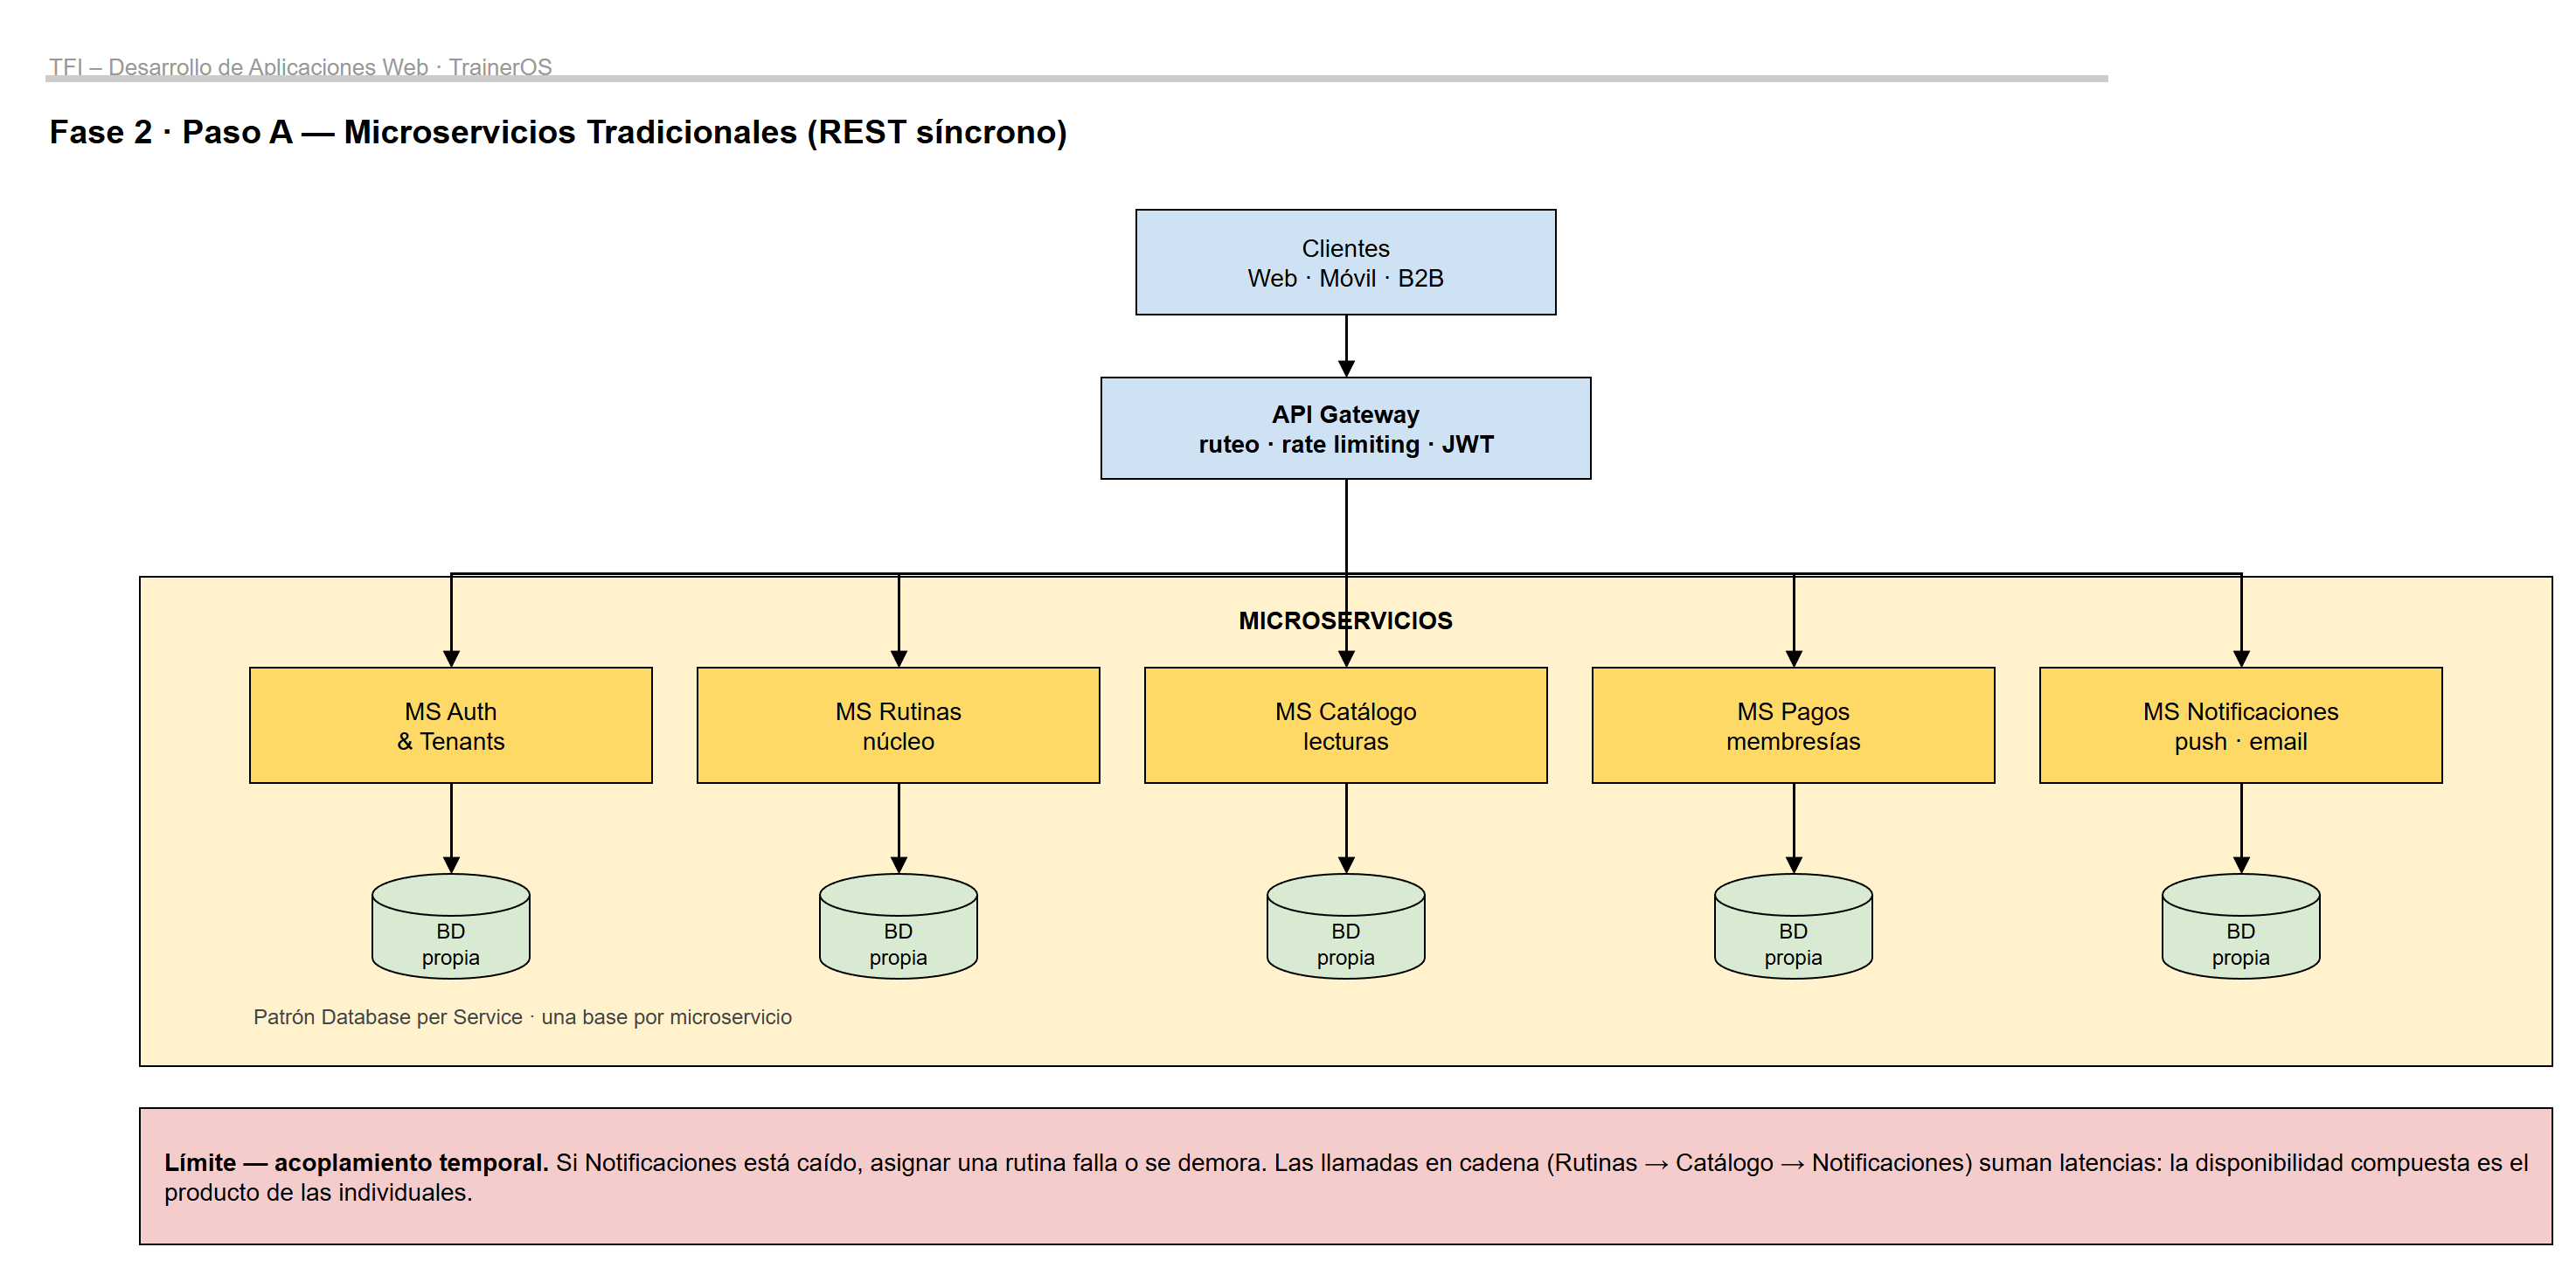
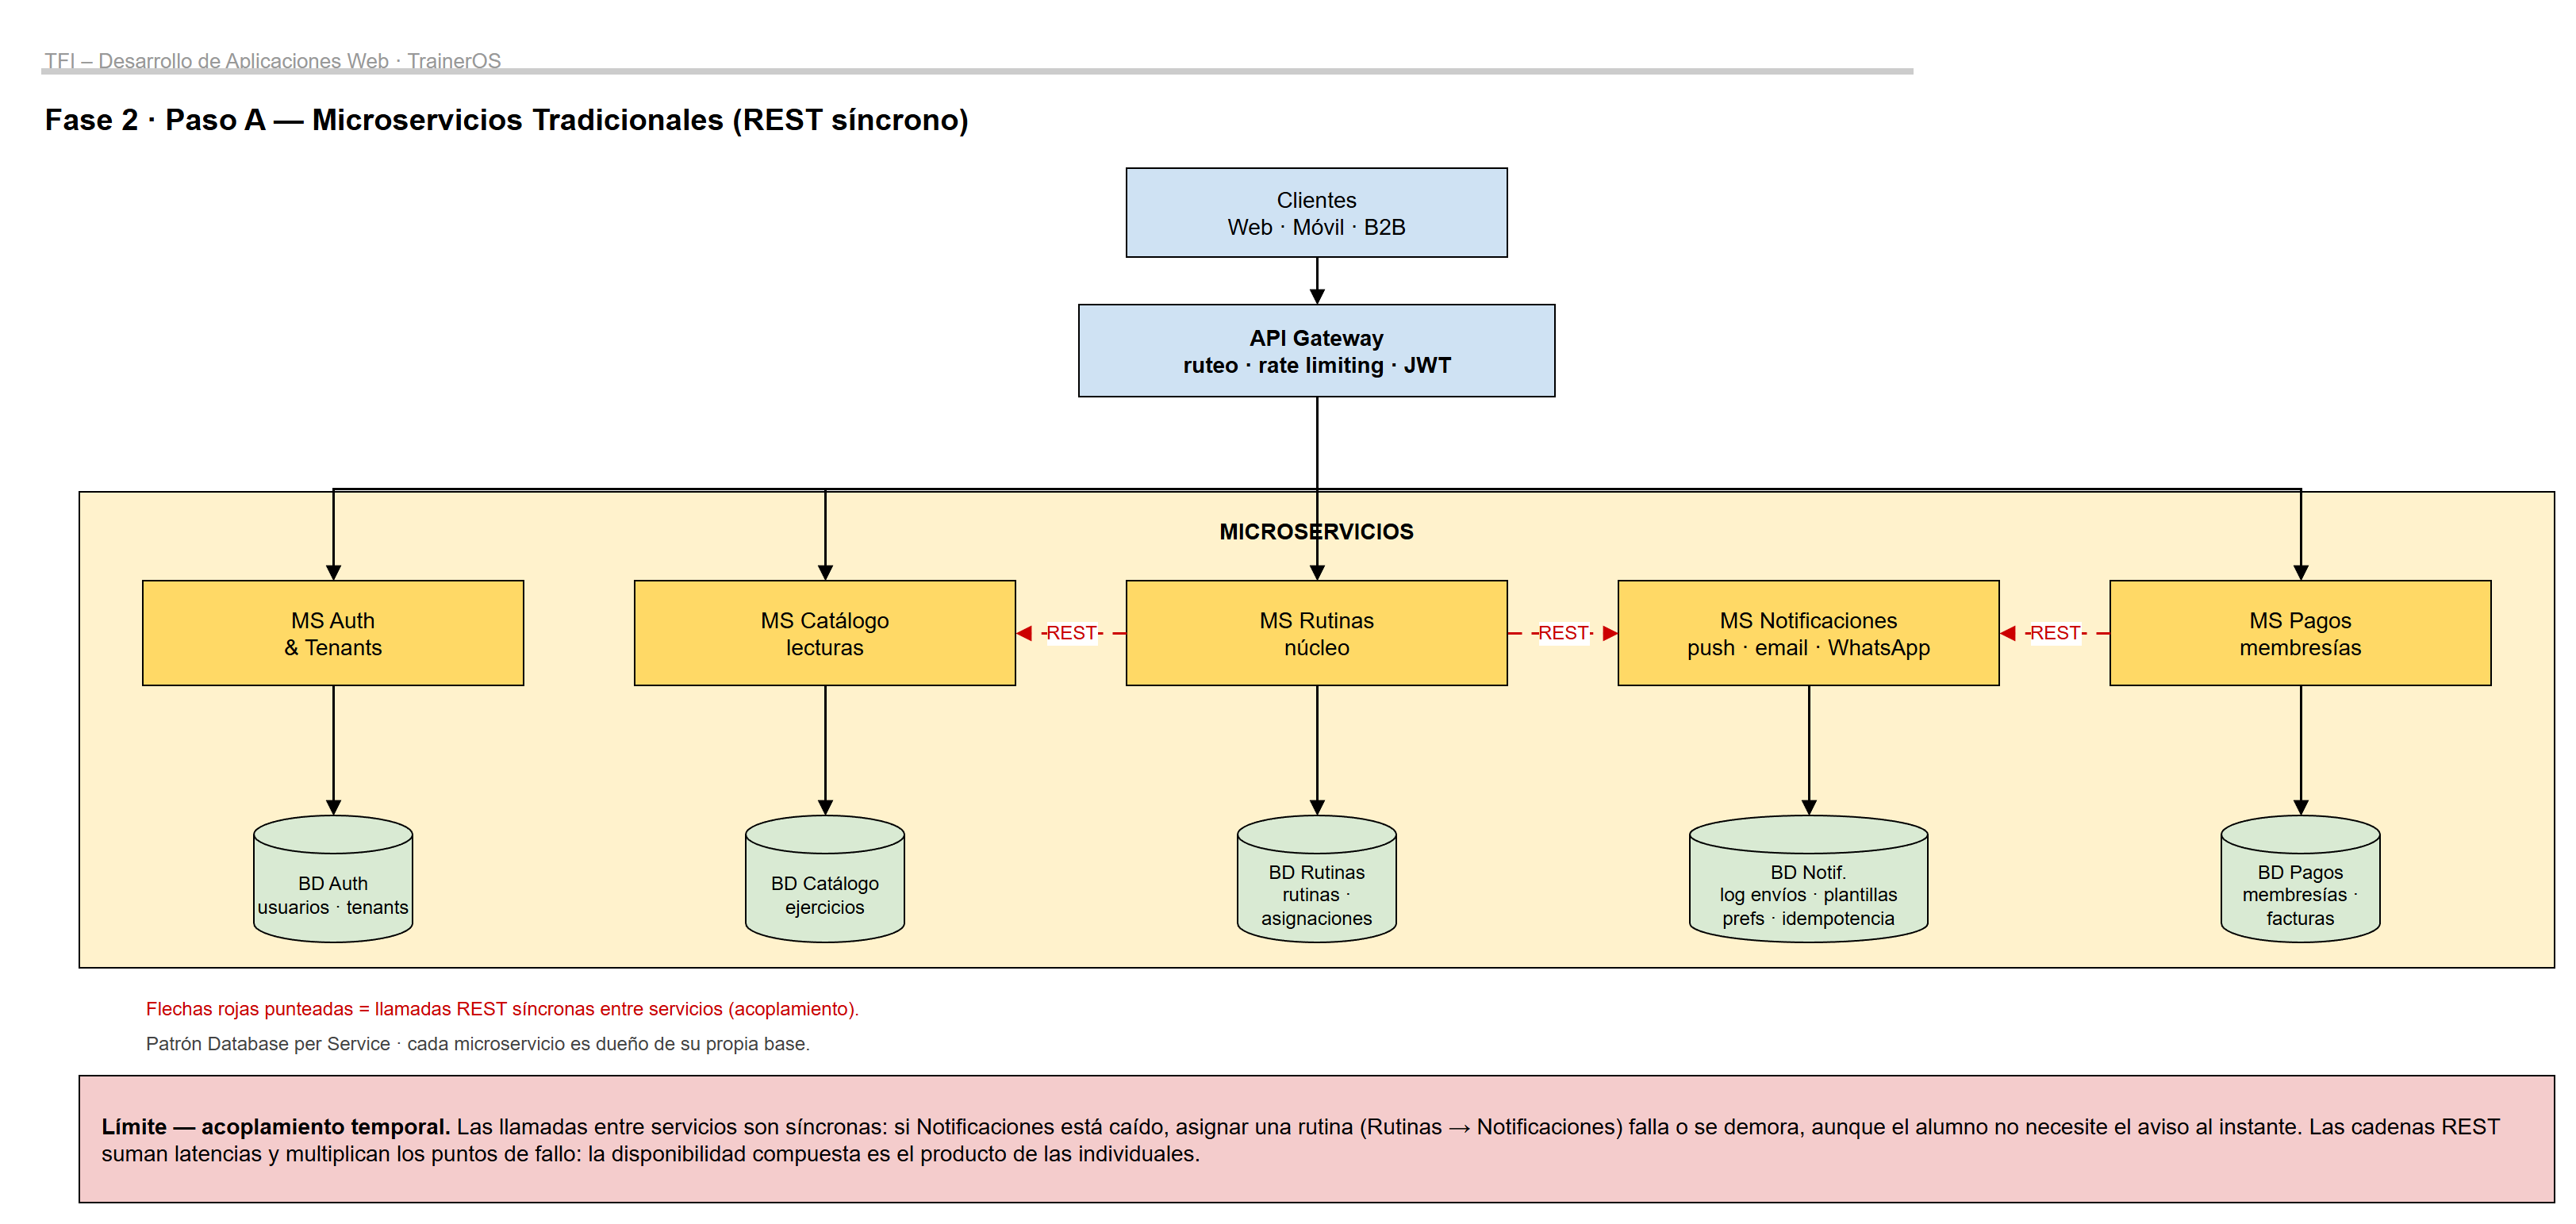
feat: completa y corrige los diagramas de arquitectura
- rehace el diagrama de microservicios tradicionales con base de datos por
  servicio y las llamadas REST sincronas entre servicios
- corrige el diagrama orientado a eventos (el gateway estaba desconectado)
- agrega los diagramas de robustez y escalabilidad (fase 3) e integracion con IA (fase 5)

diff --git a/Presentacion/generador/build_drawio.py b/Presentacion/generador/build_drawio.py
@@ -86,21 +86,38 @@ def fase1():
 # ===================================================== FASE 2A
 def fase2a():
     d=Dio(); header(d, "Fase 2 · Paso A — Microservicios Tradicionales (REST síncrono)")
-    cli = d.node(660, 110, 240, 60, "Clientes\nWeb · Móvil · B2B", box(BLUE))
-    gw = d.node(640, 206, 280, 58, "API Gateway\nruteo · rate limiting · JWT", box(BLUE, "fontStyle=1;"))
+    cli = d.node(720, 96, 240, 56, "Clientes\nWeb · Móvil · B2B", box(BLUE))
+    gw  = d.node(690, 182, 300, 58, "API Gateway\nruteo · rate limiting · JWT", box(BLUE, "fontStyle=1;"))
     d.edge(cli, gw, exit=(0.5,1), entry=(0.5,0))
 
-    cont = d.node(90, 320, 1380, 280, "MICROSERVICIOS", container(CREAM))
-    svcs = [("MS Auth\n& Tenants",), ("MS Rutinas\nnúcleo",), ("MS Catálogo\nlecturas",), ("MS Pagos\nmembresías",), ("MS Notificaciones\npush · email",)]
-    n=len(svcs); sw=230; gap=26; x0=90+(1380-(sw*n+gap*(n-1)))//2; sy=372
-    for i,(lab,) in enumerate(svcs):
-        x=x0+i*(sw+gap)
-        s=d.node(x, sy, sw, 66, lab, box(GOLD))
-        dbi=d.node(x+sw//2-45, sy+118, 90, 60, "BD\npropia", db(GREEN))
-        d.edge(gw, s, exit=(0.5,1), entry=(0.5,0))
+    cont = d.node(60, 300, 1560, 300, "MICROSERVICIOS", container(CREAM))
+    # Orden pensado para que las llamadas REST queden entre cajas ADYACENTES (sin cruces):
+    # Notificaciones queda al centro-derecha, llamado por Rutinas (izq) y Pagos (der).
+    svcs = [
+        ("MS Auth\n& Tenants",                       "BD Auth\nusuarios · tenants",                          100, 100),
+        ("MS Catálogo\nlecturas",                    "BD Catálogo\nejercicios",                              410, 100),
+        ("MS Rutinas\nnúcleo",                       "BD Rutinas\nrutinas · asignaciones",                   720, 100),
+        ("MS Notificaciones\npush · email · WhatsApp","BD Notif.\nlog envíos · plantillas\nprefs · idempotencia", 1030, 150),
+        ("MS Pagos\nmembresías",                     "BD Pagos\nmembresías · facturas",                     1340, 100),
+    ]
+    ids={}
+    for i,(lab,dblab,x,dbw) in enumerate(svcs):
+        s=d.node(x, 356, 240, 66, lab, box(GOLD))
+        cx=x+120
+        dbi=d.node(cx-dbw//2, 504, dbw, 80, dblab, db(GREEN))
         d.edge(s, dbi, exit=(0.5,1), entry=(0.5,0))
-    d.node(x0, sy+186, 600, 22, "Patrón Database per Service · una base por microservicio", "text;html=1;align=left;fontSize=12;fontColor=#444444;")
-    d.node(90, 624, 1380, 78, "<b>Límite — acoplamiento temporal.</b>  Si Notificaciones está caído, asignar una rutina falla o se demora. Las llamadas en cadena (Rutinas → Catálogo → Notificaciones) suman latencias: la disponibilidad compuesta es el producto de las individuales.", box(REDN, "align=left;spacingLeft=12;verticalAlign=middle;"))
+        ids[i]=s
+    # Gateway -> servicios client-facing (Notificaciones NO es client-facing)
+    for i in (0,1,2,4):
+        d.edge(gw, ids[i], exit=(0.5,1), entry=(0.5,0))
+    # Llamadas REST síncronas entre servicios (rojo punteado) — todas entre adyacentes
+    red="strokeColor=#CC0000;fontColor=#CC0000;dashed=1;dashPattern=6 4;"
+    d.edge(ids[2], ids[1], "REST", extra=red, exit=(0,0.5), entry=(1,0.5))   # Rutinas -> Catálogo (valida ejercicios)
+    d.edge(ids[2], ids[3], "REST", extra=red, exit=(1,0.5), entry=(0,0.5))   # Rutinas -> Notificaciones (avisa al alumno)
+    d.edge(ids[4], ids[3], "REST", extra=red, exit=(0,0.5), entry=(1,0.5))   # Pagos   -> Notificaciones (aviso de pago)
+    d.node(100, 612, 900, 22, "Flechas rojas punteadas = llamadas REST síncronas entre servicios (acoplamiento).", "text;html=1;align=left;fontSize=12;fontColor=#CC0000;")
+    d.node(100, 634, 900, 22, "Patrón Database per Service · cada microservicio es dueño de su propia base.", "text;html=1;align=left;fontSize=12;fontColor=#444444;")
+    d.node(60, 668, 1560, 80, "<b>Límite — acoplamiento temporal.</b>  Las llamadas entre servicios son síncronas: si Notificaciones está caído, asignar una rutina (Rutinas → Notificaciones) falla o se demora, aunque el alumno no necesite el aviso al instante. Las cadenas REST suman latencias y multiplican los puntos de fallo: la disponibilidad compuesta es el producto de las individuales.", box(REDN, "align=left;spacingLeft=12;verticalAlign=middle;"))
     save("fase2a_microservicios_tradicionales.drawio", d.xml())
 
 # ===================================================== FASE 2B
@@ -114,6 +131,9 @@ def fase2b():
     pag=d.node(350, 330, 240, 60, "MS Pagos\npublica", box(GOLD))
     d.node(430, 274, 80, 44, "BD", db(GREEN))
     d.node(430, 404, 80, 44, "BD", db(GREEN))
+    # El Gateway rutea los comandos del cliente al lado de escritura (Rutinas / Pagos)
+    d.edge(gw, rut, "comandos REST", exit=(1,0.5), entry=(0,0.5))
+    d.edge(gw, pag, extra="", exit=(1,0.5), entry=(0,0.5))
 
     broker=d.node(650, 190, 300, 360, "Message Broker — Google Pub/Sub", container(BLUE))
     for i,ev in enumerate(["rutina.asignada","entrenamiento.completado","pago.confirmado","membresia.por_vencer"]):
@@ -151,5 +171,68 @@ def evolucion():
     d.node(70, py+ph+24, 1390, 24, "Narrativa de venta al CTO: “empezamos por USD 16/mes y escalamos solo cuando el negocio lo pagó”.", "text;html=1;align=center;fontSize=13;fontStyle=1;fontColor=#444444;")
     save("evolucion_3_arquitecturas.drawio", d.xml())
 
+# ===================================================== FASE 3
+def fase3():
+    d=Dio(); header(d, "Fase 3 — Robustez y Escalabilidad (caché · read replicas · LB · auto-scaling)")
+    cli = d.node(700, 96, 240, 50, "Clientes\nWeb · Móvil · B2B", box(BLUE))
+    cdn = d.node(120, 174, 250, 56, "CDN\nassets · videos de técnica (edge)", box(BLUE))
+    lb  = d.node(680, 174, 300, 58, "Cloud Load Balancer\nHTTPS · termina TLS · multi-zona", box(BLUE, "fontStyle=1;"))
+    gw  = d.node(680, 266, 300, 52, "API Gateway ×N (réplicas)", box(BLUE, "fontStyle=1;"))
+    d.edge(cli, cdn, "estáticos", exit=(0,0.5), entry=(0.5,0))
+    d.edge(cli, lb, exit=(0.5,1), entry=(0.5,0))
+    d.edge(lb, gw, exit=(0.5,1), entry=(0.5,0))
+
+    cont = d.node(120, 360, 1440, 170, "MICROSERVICIOS · HPA (escalan por CPU / RPS) · mínimo 2 réplicas en zonas distintas", container(CREAM, "fontSize=13;"))
+    msx = ["MS Auth\n×N", "MS Rutinas\n×N", "MS Catálogo\n×N", "MS Pagos\n×N", "MS Notif.\n×N"]
+    n=len(msx); sw=240; gap=30; x0=120+(1440-(sw*n+gap*(n-1)))//2
+    for i,lab in enumerate(msx):
+        d.node(x0+i*(sw+gap), 412, sw, 70, lab, box(GOLD))
+    d.edge(gw, cont, exit=(0.5,1), entry=(0.5,0))
+
+    redis  = d.node(130, 600, 380, 128, "Redis · Memorystore (cache-aside)\n• Catálogo — TTL 24 h\n• Rutina del día — TTL 1 h\n• Sesiones · rate limiting", box(GREEN, "align=left;spacingLeft=12;verticalAlign=middle;"))
+    sqlp   = d.node(620, 600, 360, 64, "Cloud SQL — Primaria\nHA multi-zona · failover automático", db(GREEN))
+    rr1    = d.node(630, 706, 165, 56, "Read replica", db(GREEN))
+    rr2    = d.node(815, 706, 165, 56, "Read replica", db(GREEN))
+    pubsub = d.node(1090, 600, 400, 128, "Pub/Sub — backbone de eventos\ntópicos + DLQ\nentrega at-least-once · reintentos", box(BLUE, "align=left;spacingLeft=12;verticalAlign=middle;"))
+    d.edge(cont, redis,  "lecturas cacheadas", exit=(0.22,1), entry=(0.5,0))
+    d.edge(cont, sqlp,   "escrituras",          exit=(0.5,1),  entry=(0.5,0))
+    d.edge(cont, pubsub, "eventos",             exit=(0.78,1), entry=(0.5,0))
+    d.edge(sqlp, rr1, "replica", exit=(0.4,1), entry=(0.5,0))
+    d.edge(sqlp, rr2, "async",   exit=(0.6,1), entry=(0.5,0))
+    d.node(615, 766, 380, 22, "Lecturas analíticas · dashboards · CQRS → réplicas", "text;html=1;align=center;fontSize=11;fontColor=#444444;")
+    d.node(120, 812, 1440, 64, "<b>Tolerancia a fallos:</b> PodDisruptionBudgets · circuit breakers + reintentos con backoff exponencial · dead-letter queues · idempotencia (Pub/Sub at-least-once). Cluster Autoscaler agrega o quita nodos del cluster según la demanda agregada.", box(GREEN, "align=left;spacingLeft=12;verticalAlign=middle;"))
+    save("fase3_arquitectura_escalada.drawio", d.xml())
+
+# ===================================================== FASE 5
+def fase5():
+    d=Dio(); header(d, "Fase 5 — Integración con IA (Opción A: APIs de LLM) · flujo asíncrono")
+    # --- fila superior: pedido -> encola -> worker -> LLM ---
+    cli   = d.node(60, 232, 150, 66, "Cliente", box(BLUE))
+    gw    = d.node(250, 232, 150, 66, "API Gateway", box(BLUE, "fontStyle=1;"))
+    asist = d.node(440, 232, 215, 66, "MS Asistente IA\nresponde 202 + job_id", box(GOLD))
+    jobs  = d.node(705, 232, 185, 66, "Pub/Sub · ia.jobs\n(cola de trabajos)", box(BLUE))
+    work  = d.node(940, 232, 215, 66, "Workers IA · GKE\nHPA por profundidad de cola", box(GOLD))
+    llm   = d.node(1210, 222, 270, 86, "API LLM externa\nAnthropic Claude / OpenAI\nfuera de la arquitectura", box(WHITE, "dashed=1;strokeWidth=2;fontStyle=2;"))
+    d.edge(cli, gw,    "① pedido", exit=(1,0.5), entry=(0,0.5))
+    d.edge(gw, asist,  "②",        exit=(1,0.5), entry=(0,0.5))
+    d.edge(asist, jobs,"③ encola", exit=(1,0.5), entry=(0,0.5))
+    d.edge(jobs, work, "④ consume",exit=(1,0.5), entry=(0,0.5))
+    d.edge(work, llm,  "⑤ prompt + contexto", exit=(1,0.4), entry=(0,0.4))
+    d.edge(llm, work,  "respuesta", extra="dashed=1;", exit=(0,0.7), entry=(1,0.7))
+    # --- fila inferior: persiste -> publica terminado -> notifica -> push ---
+    bd    = d.node(975, 430, 150, 56, "BD resultados", db(GREEN))
+    done  = d.node(705, 424, 185, 66, "Pub/Sub · ia.job.terminado", box(BLUE))
+    notif = d.node(440, 424, 215, 66, "MS Notificaciones", box(GOLD))
+    d.edge(work, bd,    "⑥ persiste", exit=(0.5,1), entry=(0.5,0))
+    d.edge(work, done,  "⑦ publica",  exit=(0.2,1), entry=(1,0.5))
+    d.edge(done, notif, "consume",    exit=(0,0.5), entry=(1,0.5))
+    d.edge(notif, cli,  "push / websocket", exit=(0,0.5), entry=(0.5,1))
+    # --- polling de respaldo (cliente consulta estado) ---
+    d.edge(cli, asist, "GET /ai/jobs/{id} · polling de respaldo", extra="dashed=1;strokeColor=#666666;fontColor=#666666;", exit=(0.5,1), entry=(0.5,1))
+    # --- notas ---
+    d.node(60, 560, 870, 70, "<b>Resiliencia:</b> timeout 60 s · reintentos con backoff + jitter (máx. 3) · circuit breaker con fallback a un 2º proveedor o degradación elegante · idempotencia por job_id · dead-letter queue.", box(GREEN, "align=left;spacingLeft=12;verticalAlign=middle;"))
+    d.node(950, 560, 530, 70, "<b>Costos y datos:</b> presupuesto de tokens por tenant · caché de respuestas para prompts repetidos · anonimización de los datos del alumno antes de salir a la API externa.", box(CREAM, "align=left;spacingLeft=12;verticalAlign=middle;"))
+    save("fase5_integracion_ia.drawio", d.xml())
+
 if __name__=="__main__":
-    fase1(); fase2a(); fase2b(); evolucion(); print("Listo.")
+    fase1(); fase2a(); fase2b(); fase3(); fase5(); evolucion(); print("Listo.")